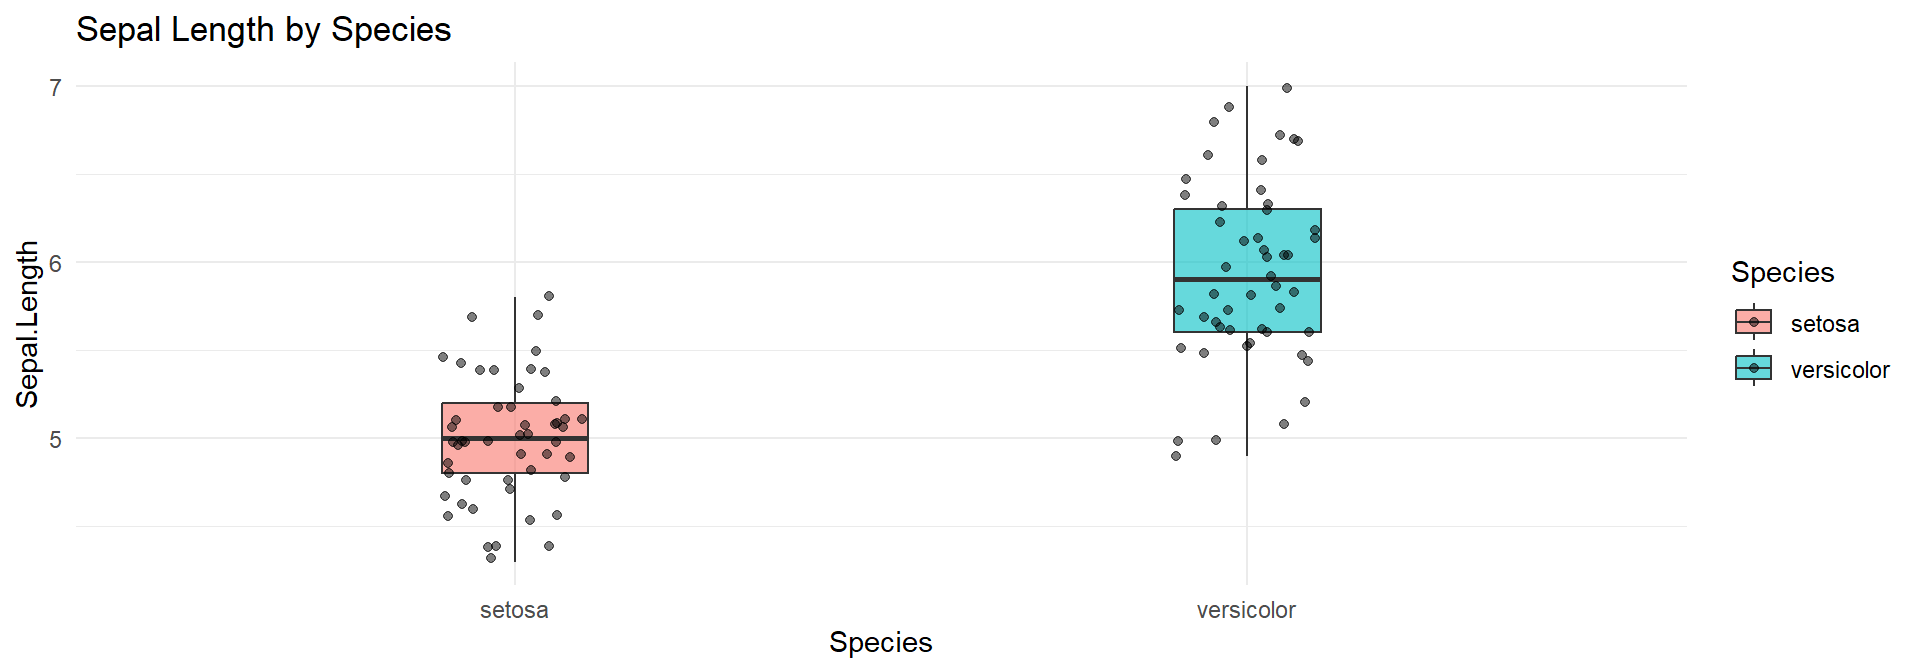
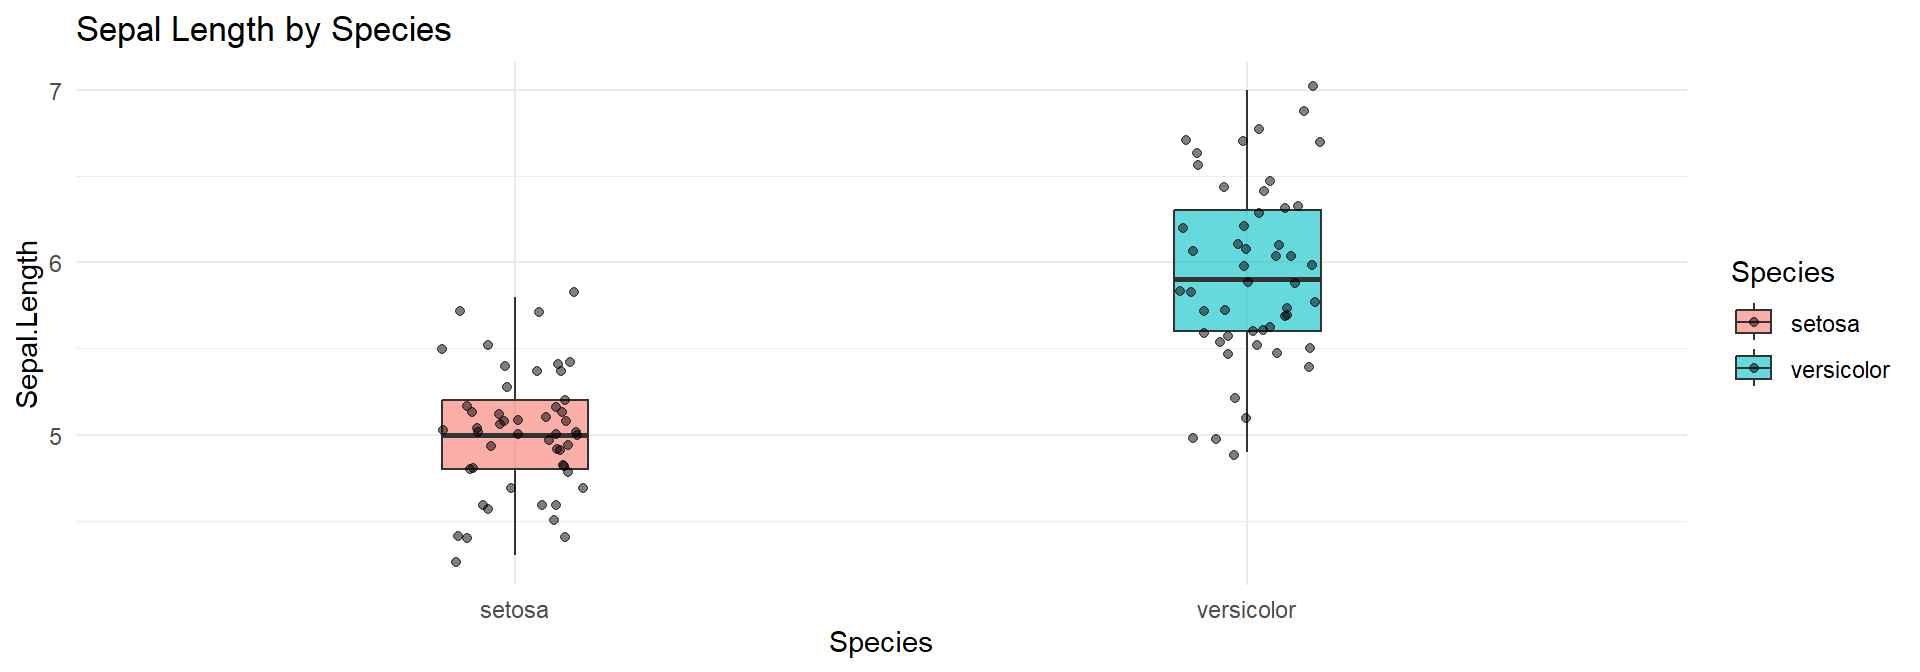
update nonparam

diff --git a/docs/nonparam.html b/docs/nonparam.html
@@ -498,11 +498,8 @@ Dr K.J. Mhango
 <ul>
 <li><a href="#/non-parametric-alternative-if-assumptions-break-2" id="/toc-spearmans-rank-correlation">Spearman’s Rank Correlation</a></li>
 <li><a href="#/non-parametric-alternative-if-assumptions-break-2" id="/toc-kendalls-tau">Kendall’s Tau</a></li>
+<li><a href="#/non-parametric-alternative-if-assumptions-break-2" id="/toc-summary-use-a-non-parametric-test-when">Summary: Use a non-parametric test when:</a></li>
 </ul></li>
-</ul></li>
-<li><a href="#/summary-of-when-to-use-non-parametric-methods" id="/toc-summary-of-when-to-use-non-parametric-methods">Summary of When to Use Non-Parametric Methods</a>
-<ul>
-<li><a href="#/use-a-non-parametric-test-when" id="/toc-use-a-non-parametric-test-when">Use a non-parametric test when:</a></li>
 </ul></li>
 </ul>
 </nav>
@@ -1455,13 +1452,7 @@ sample estimates:
 <li><p>Better for small samples or many ties.</p></li>
 <li><p>Interpretation: “There is a strong positive monotonic correlation between sepal length and petal length.”</p></li>
 </ul>
-</section></section>
-<section>
-<section id="summary-of-when-to-use-non-parametric-methods" class="title-slide slide level1 center">
-<h1>Summary of When to Use Non-Parametric Methods</h1>
-
-</section>
-<h3 id="use-a-non-parametric-test-when">Use a non-parametric test when:</h3>
+<h3 id="summary-use-a-non-parametric-test-when">Summary: Use a non-parametric test when:</h3>
 <ul>
 <li>Data are <strong>clearly non-normal</strong> (Shapiro–Wilk fails; Q–Q plots bend strongly).</li>
 <li><strong>Variances differ strongly</strong> across groups (Levene fails).</li>
@@ -1475,7 +1466,8 @@ sample estimates:
 <div class="footer footer-default">
 
 </div>
-</div></section>
+</div>
+</section></section>
     </div>
   </div>
 
